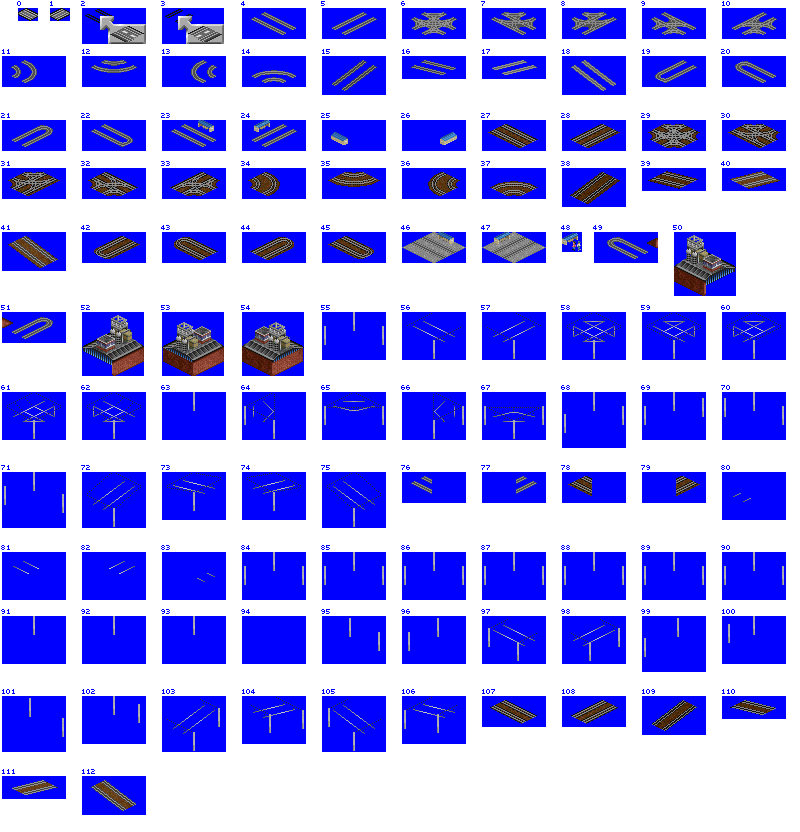
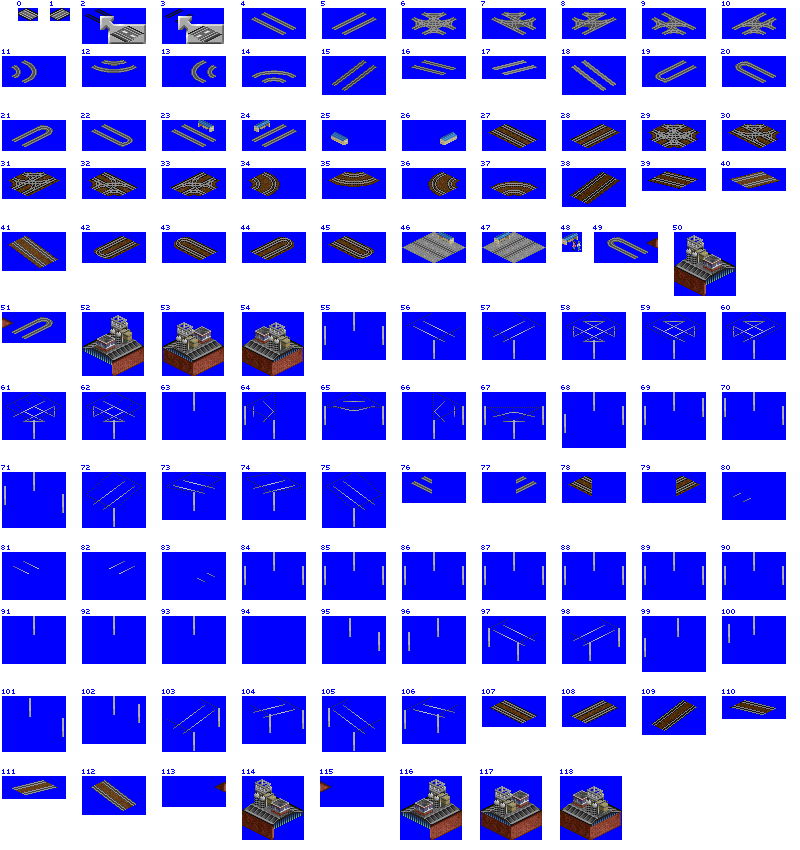
-Change: Add 6 new sprites to the tram Action 5, which provides electrified depot graphics without tracks.

diff --git a/src/newgrf.cpp b/src/newgrf.cpp
@@ -5974,12 +5974,19 @@ static void GraphicsNew(ByteReader *buf)
 	/* Load <num> sprites starting from <replace>, then skip <skip_num> sprites. */
 	grfmsg(2, "GraphicsNew: Replacing sprites %d to %d of %s (type 0x%02X) at SpriteID 0x%04X", offset, offset + num - 1, action5_type->name, type, replace);
 
+	if (type == 0x0D) _loaded_newgrf_features.shore = SHORE_REPLACE_ACTION_5;
+
+	if (type == 0x0B) {
+		static const SpriteID depot_with_track_offset = SPR_TRAMWAY_DEPOT_WITH_TRACK - SPR_TRAMWAY_BASE;
+		static const SpriteID depot_no_track_offset = SPR_TRAMWAY_DEPOT_NO_TRACK - SPR_TRAMWAY_BASE;
+		if (offset <= depot_with_track_offset && offset + num > depot_with_track_offset) _loaded_newgrf_features.tram = TRAMWAY_REPLACE_DEPOT_WITH_TRACK;
+		if (offset <= depot_no_track_offset && offset + num > depot_no_track_offset) _loaded_newgrf_features.tram = TRAMWAY_REPLACE_DEPOT_NO_TRACK;
+	}
+
 	for (; num > 0; num--) {
 		_cur.nfo_line++;
 		LoadNextSprite(replace == 0 ? _cur.spriteid++ : replace++, _cur.file_index, _cur.nfo_line, _cur.grf_container_ver);
 	}
-
-	if (type == 0x0D) _loaded_newgrf_features.shore = SHORE_REPLACE_ACTION_5;
 
 	_cur.skip_sprites = skip_num;
 }
@@ -8416,6 +8423,7 @@ void ResetNewGRFData()
 	_loaded_newgrf_features.has_newhouses     = false;
 	_loaded_newgrf_features.has_newindustries = false;
 	_loaded_newgrf_features.shore             = SHORE_REPLACE_NONE;
+	_loaded_newgrf_features.tram              = TRAMWAY_REPLACE_DEPOT_NONE;
 
 	/* Clear all GRF overrides */
 	_grf_id_overrides.clear();
@@ -9282,6 +9290,21 @@ static void ActivateOldShore()
 }
 
 /**
+ * Replocate the old tram depot sprites to the new position, if no new ones were loaded.
+ */
+static void ActivateOldTramDepot()
+{
+	if (_loaded_newgrf_features.tram == TRAMWAY_REPLACE_DEPOT_WITH_TRACK) {
+		DupSprite(SPR_ROAD_DEPOT               + 0, SPR_TRAMWAY_DEPOT_NO_TRACK + 0); // use road depot graphics for "no tracks"
+		DupSprite(SPR_TRAMWAY_DEPOT_WITH_TRACK + 1, SPR_TRAMWAY_DEPOT_NO_TRACK + 1);
+		DupSprite(SPR_ROAD_DEPOT               + 2, SPR_TRAMWAY_DEPOT_NO_TRACK + 2); // use road depot graphics for "no tracks"
+		DupSprite(SPR_TRAMWAY_DEPOT_WITH_TRACK + 3, SPR_TRAMWAY_DEPOT_NO_TRACK + 3);
+		DupSprite(SPR_TRAMWAY_DEPOT_WITH_TRACK + 4, SPR_TRAMWAY_DEPOT_NO_TRACK + 4);
+		DupSprite(SPR_TRAMWAY_DEPOT_WITH_TRACK + 5, SPR_TRAMWAY_DEPOT_NO_TRACK + 5);
+	}
+}
+
+/**
  * Decide whether price base multipliers of grfs shall apply globally or only to the grf specifying them
  */
 static void FinalisePriceBaseMultipliers()
@@ -9459,6 +9482,9 @@ static void AfterLoadGRFs()
 
 	/* Load old shore sprites in new position, if they were replaced by ActionA */
 	ActivateOldShore();
+
+	/* Load old tram depot sprites in new position, if no new ones are present */
+	ActivateOldTramDepot();
 
 	/* Set up custom rail types */
 	InitRailTypes();

diff --git a/src/road_cmd.cpp b/src/road_cmd.cpp
@@ -1705,7 +1705,13 @@ static void DrawTile_Road(TileInfo *ti)
 			bool default_gfx = relocation == 0;
 			if (default_gfx) {
 				if (HasBit(rti->flags, ROTF_CATENARY)) {
-					relocation = SPR_TRAMWAY_DEPOT - SPR_ROAD_DEPOT;
+					if (_loaded_newgrf_features.tram == TRAMWAY_REPLACE_DEPOT_WITH_TRACK && rtids.HasTram() && !rti->UsesOverlay()) {
+						/* Sprites with track only work for default tram */
+						relocation = SPR_TRAMWAY_DEPOT_WITH_TRACK - SPR_ROAD_DEPOT;
+					} else {
+						/* Sprites without track are always better, if provided */
+						relocation = SPR_TRAMWAY_DEPOT_NO_TRACK - SPR_ROAD_DEPOT;
+					}
 				}
 			} else {
 				relocation -= SPR_ROAD_DEPOT;
@@ -1748,7 +1754,13 @@ void DrawRoadDepotSprite(int x, int y, DiagDirection dir, RoadTypeIdentifier rti
 	bool default_gfx = relocation == 0;
 	if (default_gfx) {
 		if (HasBit(rti->flags, ROTF_CATENARY)) {
-			relocation = SPR_TRAMWAY_DEPOT - SPR_ROAD_DEPOT;
+			if (_loaded_newgrf_features.tram == TRAMWAY_REPLACE_DEPOT_WITH_TRACK && rtid.IsTram() && !rti->UsesOverlay()) {
+				/* Sprites with track only work for default tram */
+				relocation = SPR_TRAMWAY_DEPOT_WITH_TRACK - SPR_ROAD_DEPOT;
+			} else {
+				/* Sprites without track are always better, if provided */
+				relocation = SPR_TRAMWAY_DEPOT_NO_TRACK - SPR_ROAD_DEPOT;
+			}
 		}
 	} else {
 		relocation -= SPR_ROAD_DEPOT;

diff --git a/src/table/sprites.h b/src/table/sprites.h
@@ -268,14 +268,15 @@ static const SpriteID SPR_TRAMWAY_BUS_STOP_DT_X_W      = SPR_TRAMWAY_BASE + 24;
 static const SpriteID SPR_TRAMWAY_BUS_STOP_DT_X_E      = SPR_TRAMWAY_BASE + 26;
 static const SpriteID SPR_TRAMWAY_PAVED_STRAIGHT_Y     = SPR_TRAMWAY_BASE + 46;
 static const SpriteID SPR_TRAMWAY_PAVED_STRAIGHT_X     = SPR_TRAMWAY_BASE + 47;
-static const SpriteID SPR_TRAMWAY_DEPOT                = SPR_TRAMWAY_BASE + 49;
+static const SpriteID SPR_TRAMWAY_DEPOT_WITH_TRACK     = SPR_TRAMWAY_BASE + 49;
 static const SpriteID SPR_TRAMWAY_BACK_WIRES_STRAIGHT  = SPR_TRAMWAY_BASE + 55;
 static const SpriteID SPR_TRAMWAY_FRONT_WIRES_STRAIGHT = SPR_TRAMWAY_BASE + 56;
 static const SpriteID SPR_TRAMWAY_BACK_WIRES_SLOPED    = SPR_TRAMWAY_BASE + 72;
 static const SpriteID SPR_TRAMWAY_FRONT_WIRES_SLOPED   = SPR_TRAMWAY_BASE + 68;
 static const SpriteID SPR_TRAMWAY_TUNNEL_WIRES         = SPR_TRAMWAY_BASE + 80;
 static const SpriteID SPR_TRAMWAY_BRIDGE               = SPR_TRAMWAY_BASE + 107;
-static const uint16 TRAMWAY_SPRITE_COUNT = 113;
+static const SpriteID SPR_TRAMWAY_DEPOT_NO_TRACK       = SPR_TRAMWAY_BASE + 113;
+static const uint16 TRAMWAY_SPRITE_COUNT = 119;
 
 /** One way road sprites */
 static const SpriteID SPR_ONEWAY_BASE = SPR_TRAMWAY_BASE + TRAMWAY_SPRITE_COUNT;

diff --git a/src/newgrf.h b/src/newgrf.h
@@ -164,12 +164,19 @@ enum ShoreReplacement {
 	SHORE_REPLACE_ONLY_NEW,   ///< Only corner-shores were loaded by Action5 (openttd(w/d).grf only).
 };
 
+enum TramReplacement {
+	TRAMWAY_REPLACE_DEPOT_NONE,       ///< No tram depot graphics were loaded.
+	TRAMWAY_REPLACE_DEPOT_WITH_TRACK, ///< Electrified depot graphics with tram track were loaded.
+	TRAMWAY_REPLACE_DEPOT_NO_TRACK,   ///< Electrified depot graphics without tram track were loaded.
+};
+
 struct GRFLoadedFeatures {
 	bool has_2CC;             ///< Set if any vehicle is loaded which uses 2cc (two company colours).
 	uint64 used_liveries;     ///< Bitmask of #LiveryScheme used by the defined engines.
 	bool has_newhouses;       ///< Set if there are any newhouses loaded.
 	bool has_newindustries;   ///< Set if there are any newindustries loaded.
-	ShoreReplacement shore;   ///< It which way shore sprites were replaced.
+	ShoreReplacement shore;   ///< In which way shore sprites were replaced.
+	TramReplacement tram;     ///< In which way tram depots were replaced.
 };
 
 /**
